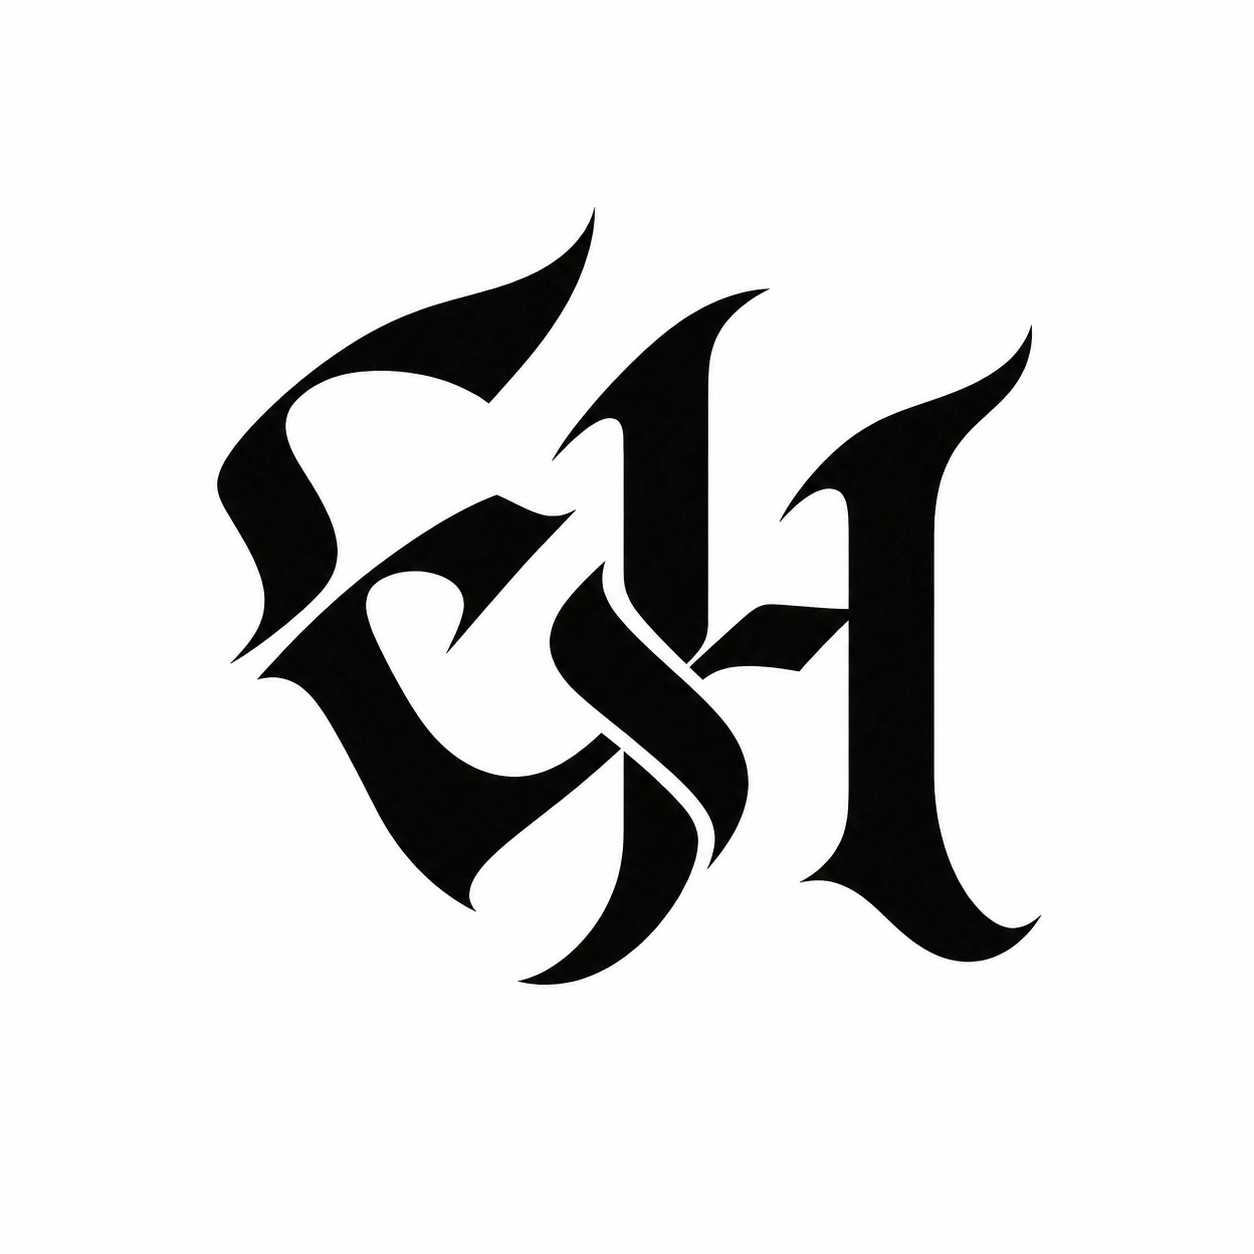
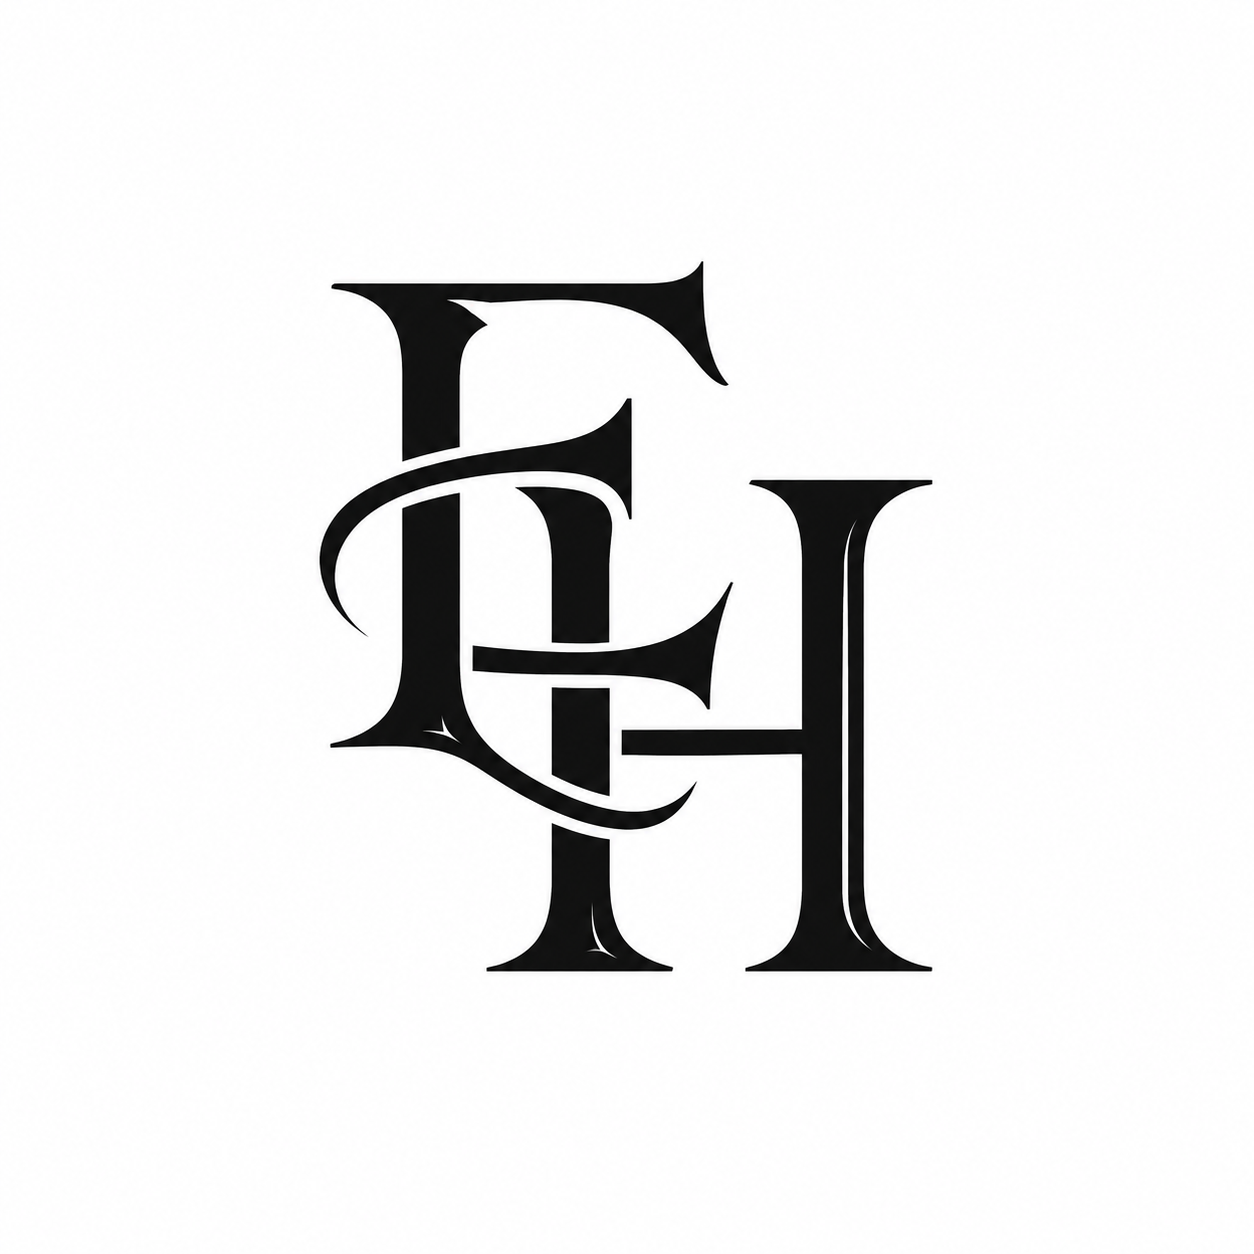
Select Woven Serif EH for Magic Initials

Changed region(s): [[0.1555, 0.1866, 0.8397, 0.8086]]

diff --git a/tools-website/src/components/Identity.jsx b/tools-website/src/components/Identity.jsx
@@ -8,7 +8,7 @@ const directions = [
 ];
 const examples = {
   name: {file: 'magic-name.png', alt: 'Evan — Diagonal Weave name logo example'},
-  initials: {file: 'magic-initials.png', alt: 'E and H — Gothic Weave initials example'},
+  initials: {file: 'magic-initials.png', alt: 'E and H — Woven Serif initials example'},
   signature: {file: 'magic-signature.png', alt: 'E. Hart — fine-line looping signature signature example'},
 };
 function savedNames() { try { return JSON.parse(readStored('l3v-logo-names', '{}')) || {}; } catch { return {}; } }

diff --git a/tools-website/ARTWORK-EXAMPLES.md b/tools-website/ARTWORK-EXAMPLES.md
@@ -5,7 +5,7 @@ All three examples represent Evan Hart: Evan, E/H, and E. Hart. Defaults also us
 | Asset | Source | SHA256 |
 |---|---|---|
 | magic-name.png | compact-logos-001 / 23-hard-angular | c283d7357ceaa59f11980fa986e237097dd7220c7806c927925e0288d0a44365 |
-| magic-initials.png | Original initials batch / INI900-S22-N23 | 2c813e4a1d15c9526ade531ff3c07abfdf39fb9c85106affd2da38d2ef44eed0 |
+| magic-initials.png | User-selected Woven Serif / review/evan-hart-initials/01.png | 289e3e60f32d364b0cf6c0b6d0e6f1cf35acf5a7b86dfe18c77b349a13b0c2e4 |
 | magic-signature.png | Built-in image generation / Evan Hart fine-line reference variant | a806c9c4323c65db34d8c81c8cb03421e3874fd22ce79a7e660712d755c9bbda |
 
 Signature visually checked for E, period, H, a, r, t. E exit forms the H crossbar and the long crossing stroke also supplies the terminal t crossbar. New draft, not user-approved. Originals are copied unchanged.
